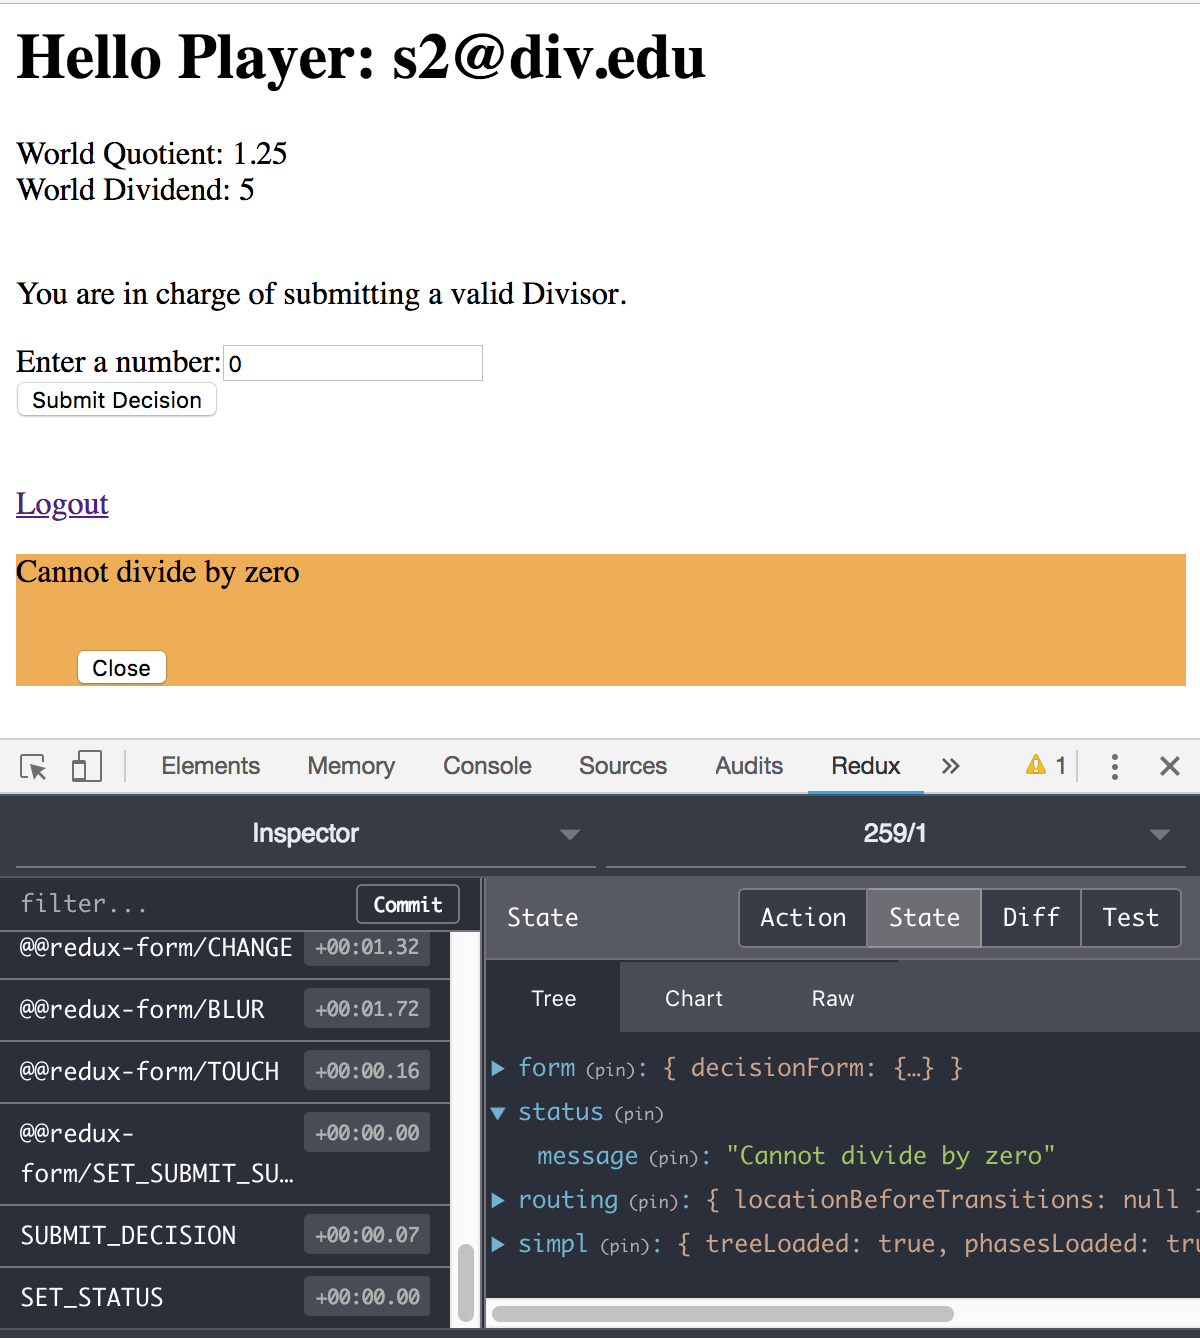
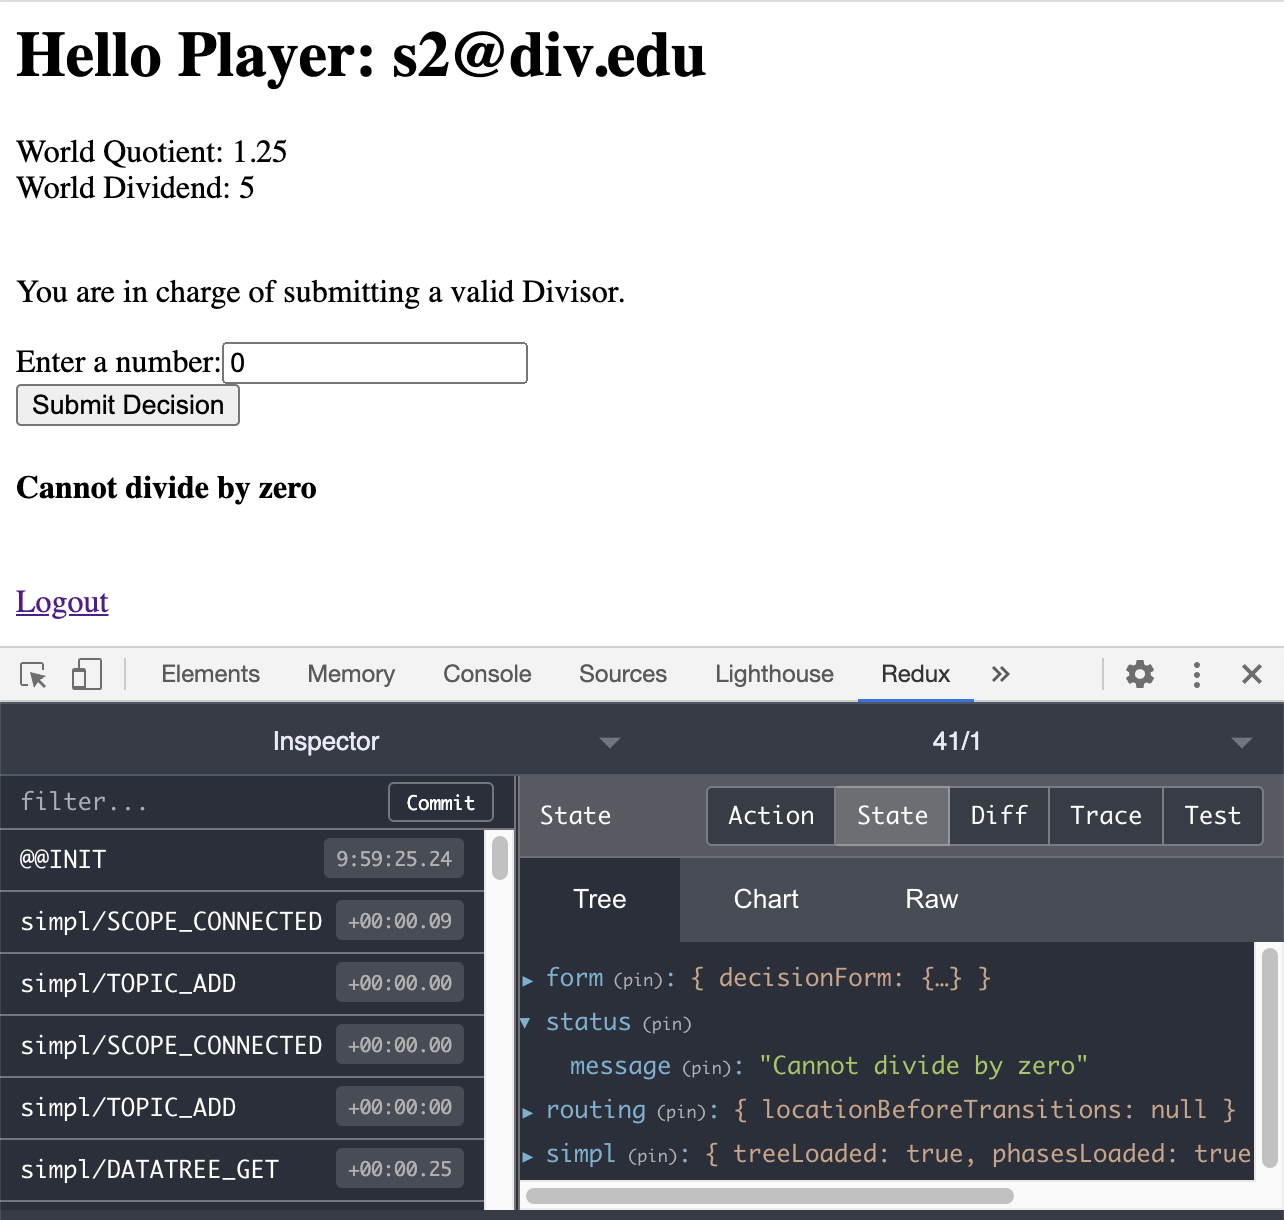
Completes refactoring of player page.
Eliminates react warning.

Changed region(s): [[0.0, 0.3738, 1.0, 0.9967], [0.0, 0.0, 0.5858, 0.1869], [0.0, 0.1869, 0.5242, 0.3426]]

diff --git a/_docs/tutorials/multi-player/frontend-player.md b/_docs/tutorials/multi-player/frontend-player.md
@@ -31,6 +31,59 @@ export const clearStatus = createAction('CLEAR_STATUS');
 **NOTE** the `submit_decision`action calls this topic because the div-model `game/games.py` `submit_decision` endpoint registers as an RPC on the topic. 
 Because `submit_decision` validates the operand, using an RPC allows us to check the returned status.
 
+Create `js/reducers/StatusReducer.js` to handle the `setStatus` and `clearStatus` actions:
+
+```jsx
+import {createReducer} from 'redux-create-reducer';
+import recycleState from 'redux-recycle';
+
+import {recyleStateAction} from 'simpl-react/lib/actions/state';
+
+import {
+  setStatus,
+  clearStatus
+} from '../actions/Actions';
+
+const initial = {message: ''};
+
+const status = recycleState(createReducer(initial, {
+  [setStatus](state, action) {
+    const message = action.payload;
+    console.log("setting status.message: ", message);
+    return Object.assign({}, state, {
+      message: message
+    });
+  },
+  [clearStatus](state) {
+    console.log("clearing status.message");
+    return Object.assign({}, state, {
+      message: ''
+    });
+  },
+}), `${recyleStateAction}`);
+
+export default status;
+
+```
+
+Then add `status` to `reducers/combined/appReducers.js`:
+
+```jsx
+import {simplReducers} from 'simpl-react/lib/reducers/combined';
+import {reducer as form} from 'redux-form';
+
+import status from '../StatusReducer';
+
+const reducers = simplReducers({
+  form,
+  // Add your customer reducers here, if any.
+  status
+});
+
+export default reducers;
+
+```
+
 Create a presentational component `js/components/DecisionForm.js` for entering player decisions and displaying an error message:
 
 ```jsx
@@ -140,6 +193,9 @@ function mapDispatchToProps(dispatch, ownProps) {
           if (status !== 'ok') {
             console.log("DecisionFormContainer.submitDecision failed due to: ", status);
             dispatch(setStatus(status));
+          } else {
+            console.log("DecisionFormContainer.submitDecision succeeded");
+            dispatch(setStatus(''));
           }
         });
     }
@@ -152,6 +208,7 @@ const DecisionFormContainer = connect(
 )(DecisionForm);
 
 export default withRouter(DecisionFormContainer);
+
 ```
 
 In your `js/modules/PlayerHome.js`, replace the original contents with:
@@ -164,10 +221,9 @@ import {connect} from 'react-redux';
 
 import DecisionFormContainer from '../containers/DecisionFormContainer'
 
-// import StatusNotificationContainer from '../containers/StatusNotificationContainer';
-
 class PlayerHome extends React.Component {
   render() {
+    const {message} = this.props;
     const quotient = (this.props.result) ? this.props.result.data.quotient : '';
     const other_operand = (this.props.other_decision) ? this.props.other_decision.data.operand : '';
     const operand = (this.props.decision) ? this.props.decision.data.operand : 0;
@@ -178,7 +234,7 @@ class PlayerHome extends React.Component {
           <br/>
           <p>You are in charge of submitting a valid {this.props.runuser.role_name}.</p>
           < DecisionFormContainer period={this.props.period} operand={operand}/>
-          {/*<StatusNotificationContainer/>*/}
+          <h4><span>{message}</span></h4>
         </div>
       );
     } else {
@@ -210,7 +266,12 @@ PlayerHome.propTypes = {
   decision: PropTypes.object,
   other_decision: PropTypes.object,
   result: PropTypes.object,
+  message: PropTypes.string,
 };
+
+PlayerHome.defaultProps = {
+  message: '',
+}
 
 function mapStateToProps(state) {
   const runuser = state.simpl.current_runuser;
@@ -225,11 +286,11 @@ function mapStateToProps(state) {
     (p) => p.name === 'Play'
   )
   const canPlay = playPhase.id === currentPhase.id;
-  console.log("PlayerHome: currentPhase=", currentPhase, ", playPhase.id=", playPhase.id, ", canPlay=", canPlay);
+  // console.log("PlayerHome: currentPhase=", currentPhase, ", playPhase.id=", playPhase.id, ", canPlay=", canPlay);
 
   const other_role = state.simpl.role.find((r) => r.id !== runuser.role);
   const other_role_name = other_role.name;
-  
+
   const scenario = state.simpl.scenario.find(
     (s) => runuser.world === s.world
   );
@@ -257,7 +318,8 @@ function mapStateToProps(state) {
     period,
     decision,
     other_decision,
-    result
+    result,
+    message: state.status.message,
   };
 }
 
@@ -267,6 +329,7 @@ const module = connect(
 )(PlayerHome);
 
 export default module;
+
 ```
 
 Now when players log in, they see a form for entering decisions for their role and a logout link:
@@ -277,191 +340,9 @@ As a world's players submit decisions, the redux state automatically updates wit
 
 ![](/assets/img/tutorials/multi-player/Simpl_Players_Home.png){: width="100%" }
 
-If a zero divisor is submitted, the returned status message is logged to the Javascript console. It would be more user-friendly to notify the player through the UI. 
-You will enable this by implementing the `StatusNotificationContainer`container  component that has been commented out of `js/modules/PlayerHome.js`.
 
-Start by creating `js/reducers/StatusReducer.js` to handle the `setStatus` and `clearStatus` actions:
-
-```jsx
-import {createReducer} from 'redux-create-reducer';
-import recycleState from 'redux-recycle';
-
-import {recyleStateAction} from 'simpl-react/lib/actions/state';
-
-import {
-  setStatus,
-  clearStatus
-} from '../actions/Actions';
-
-const initial = {message: null};
-
-const status = recycleState(createReducer(initial, {
-  [setStatus](state, action) {
-    const message = action.payload;
-    console.log("setting status.message: ", message);
-    return Object.assign({}, state, {
-      message: message
-    });
-  },
-  [clearStatus](state) {
-    console.log("clearing status.message");
-    return Object.assign({}, state, {
-      message: null
-    });
-  },
-}), `${recyleStateAction}`);
-
-export default status;
-
-```
-
-Then add `status` to `reducers/combined/appReducers.js`:
-
-```jsx
-import {simplReducers} from 'simpl-react/lib/reducers/combined';
-import {reducer as form} from 'redux-form';
-
-import status from '../StatusReducer';
-
-const reducers = simplReducers({
-  form,
-  // Add your customer reducers here, if any.
-  status
-});
-
-export default reducers;
-
-```
-
-Next, create presentational component `js/components/StatusNotification.js`:
-
-```jsx
-import React from 'react';
-import PropTypes from 'prop-types';
-
-import {Modal} from 'react-bootstrap';
-
-
-class StatusNotification extends React.Component {
-  constructor(props) {
-    super(props);
-    this.toggleModal = this.toggleModal.bind(this);
-    this.hideModal = this.hideModal.bind(this);
-    this.state = {
-      show_modal: false,
-    };
-  }
-
-  componentWillReceiveProps(nextProps) {
-    return this.setState((prevState, props) => ({
-      show_modal: props.message !== null,
-    }));
-  }
-
-  toggleModal() {
-    this.props.clearMessage();
-    this.setState({show_modal: !this.state.show_modal});
-  }
-
-  hideModal() {
-    this.props.clearMessage();
-    this.setState({show_modal: false});
-  }
-
-  render() {
-    return (
-      <Modal
-        show={this.state.show_modal}
-        onHide={this.hideModal}
-      >
-        <Modal.Body style={{"{{backgroundColor: '#F0AD4E'"}}}}>
-          <div className=""><p>{this.props.message}</p></div>
-          <div className="text-center" style={{"{{marginLeft:30, marginRight: 30, marginBottom: 30, marginTop:30"}}}}>
-            <button type="button" onClick={this.toggleModal}>Close</button>
-          </div>
-        </Modal.Body>
-      </Modal>
-    )
-  }
-}
-
-StatusNotification.propTypes = {
-  message: PropTypes.string,
-  clearMessage: PropTypes.func.isRequired,
-};
-
-StatusNotification.defaultProps = {
-  message: null,
-};
-
-
-export default StatusNotification;
-```
-
-wrap it in a new container component `js/containers/StatusNotificationContainer.js`:
-
-```jsx
-import {connect} from 'react-redux';
-
-import StatusNotification from '../components/StatusNotification';
-import {
-  clearStatus
-} from '../actions/Actions';
-
-function mapStateToProps(state, ownProps) {
-  return {
-    message: state.status.message,
-  };
-}
-
-function mapDispatchToProps(dispatch) {
-  return {
-    clearMessage: function () {
-      dispatch(clearStatus());
-    }
-  }
-}
-
-const StatusNotificationContainer = connect(
-  mapStateToProps,
-  mapDispatchToProps
-)(StatusNotification);
-
-export default StatusNotificationContainer;
-
-```
-
-Finally, activate the references to `StatusNotificationContainer` in `js/modules/PlayerHome.js`:
-
-```jsx
-...
-import StatusNotificationContainer from '../containers/StatusNotificationContainer';
-
-class PlayerHome extends React.Component {
-  render() {
-    const quotient = (this.props.result) ? this.props.result.data.quotient : '';
-    const other_operand = (this.props.other_decision) ? this.props.other_decision.data.operand : '';
-    const operand = (this.props.decision) ? this.props.decision.data.operand : 0;
-    let play = '';
-    if (this.props.canPlay) {
-      play = (
-        <div>
-          <br/>
-          <p>You are in charge of submitting a valid {this.props.runuser.role_name}.</p>
-          < DecisionFormContainer period={this.props.period} operand={operand}/>
-          <StatusNotificationContainer/>
-        </div>
-      );
-    } else {
-...
-```
-
-Log in as `s2@div.edu` with password `s2` and submit a zero decision. You should see a modal notification like this:
+Log in as `s2@div.edu` with password `s2` and submit a zero decision. You should see a notification like this:
 
 ![](/assets/img/tutorials/multi-player/Status_Notification.png){: width="80%" }
-
-There is also a new `status` Redux state object. When you click the 'Close' button, the `status.message` will be set to null and the notification will disappear.
-
-**NOTE** The modal dialog did not pop up because this tutorial does not include css styling.
 
 Congratulations! You are now ready to [Build the Multi-player Game Leader UI]({% link _docs/tutorials/multi-player/frontend-leader.md %})
